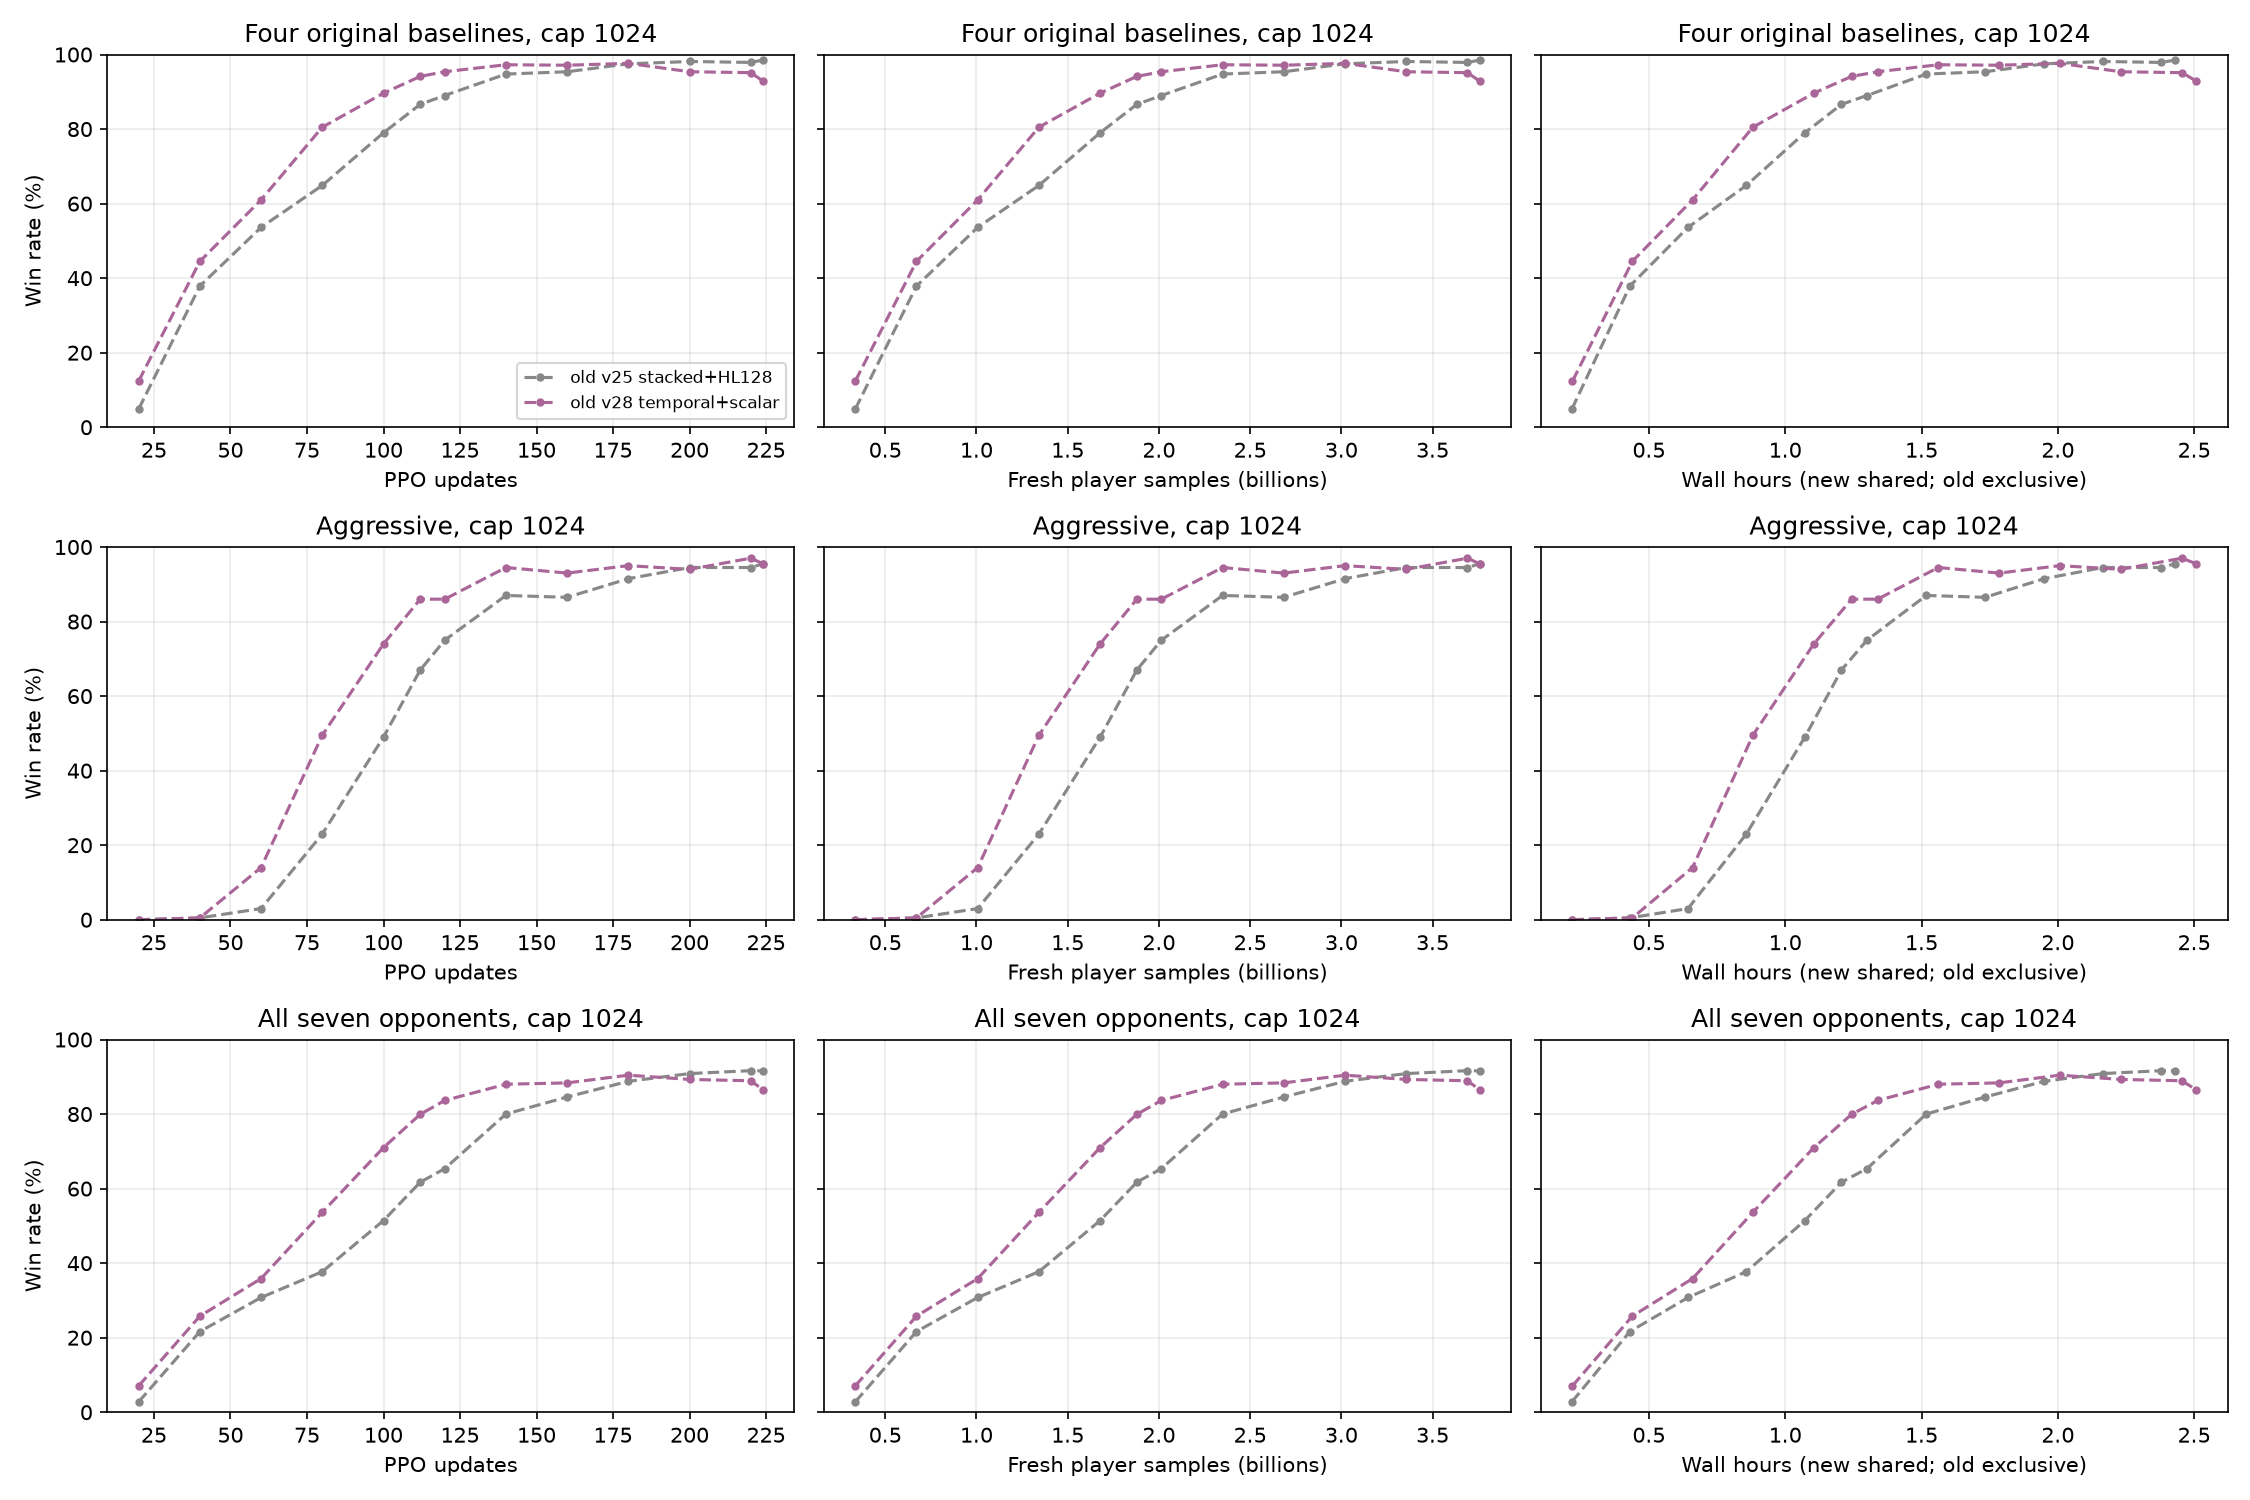
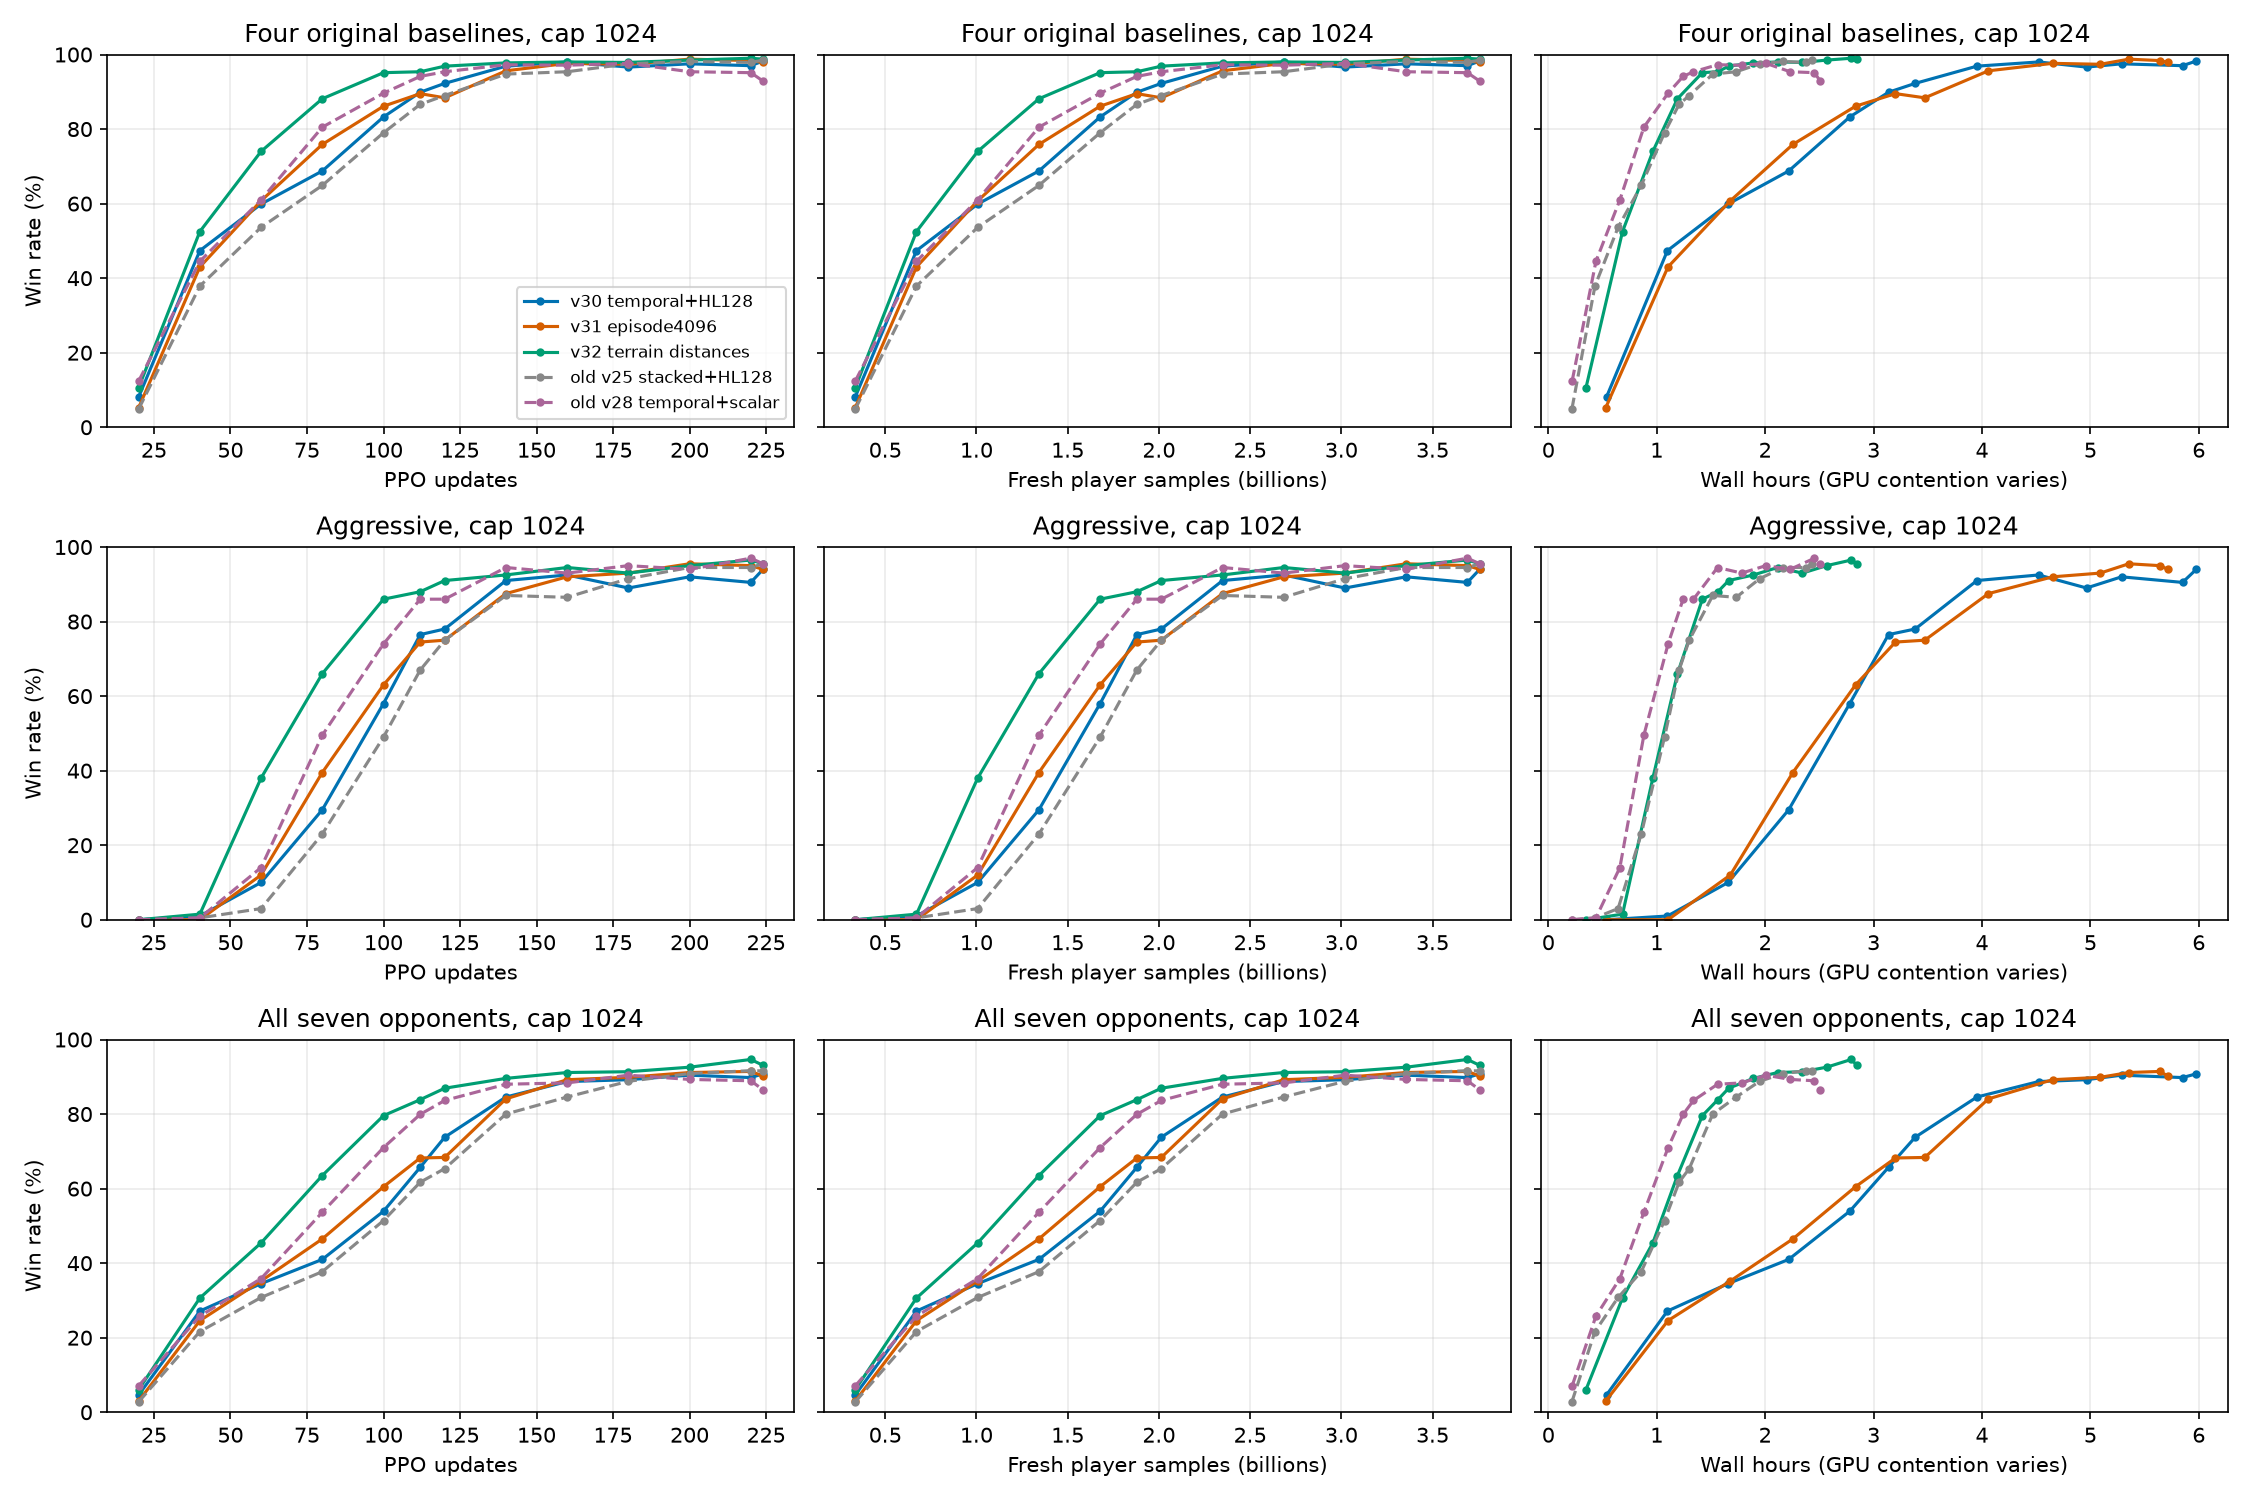
docs(rl): finalize terrain-distance and episode-length results

diff --git a/doc/terrain_distance_20261110_results.md b/doc/terrain_distance_20261110_results.md
@@ -1,14 +1,39 @@
 # Temporal + HL128：路径与时限消融
 
-更新：2026-11-11T01:59:56+00:00；队列状态：`v30_9x9_temporal_hl128`。
+更新：2026-11-11T16:40:59+00:00；队列状态：`completed`。
 
-[实验配置与路径定义](terrain_distance_20261110.md)。三组各224轮、单种子、3.758B新玩家样本。当前与其他任务共享8×H200，速度不可当作独占吞吐。
+[实验配置与路径定义](terrain_distance_20261110.md)。三组各224轮、单种子、3.758B新玩家样本。本轮部分时段与其他任务共享8×H200，资源竞争随时间变化，速度差异不能直接归因于算法。
+
+## 最终结论
+
+三组训练和全部独立种子评估于2026-11-11 16:40 UTC完成。每组实际收集3,758,096,384个新玩家样本，执行57,344次optimizer更新；13次训练期间评估均成功，权重与损失有限，allocator retry为0。
+
+以下固定比较U224，使用独立评估seed94722775、每对手200张地图×双座、采样动作，共2800局／模型。七对手为原四基线＋kestrel-v7／razor-v8／aegis-v2；统一2048 tick口径，平局不计胜利。
+
+| U224模型 | 四基线均值 | 七对手均值 | aggressive | Aegis | 七对手胜／平／负 |
+|---|---:|---:|---:|---:|---|
+| v30：基线，2048 tick | 98.125% | 91.500% | 94.25% | 66.50% | 2562／3／235 |
+| v31：4096 tick训练 | 98.000% | 90.107% | 94.00% | 65.00% | 2523／5／272 |
+| v32：两个路径通道 | 98.625% | 93.536% | 95.50% | 73.50% | 2619／2／179 |
+
+- **路径特征有收益。** 固定U224的七对手胜率提高2.036个百分点，Aegis提高7个百分点。开发集U100时，七对手胜率为80.14%，基线为54.29%；首次超过90%是U160，基线是U200。这一轮同时观察到更快的学习和更高的最终胜率。
+- **单独延长训练时限没有改善。** v31最终七对手胜率比基线低1.393个百分点；即使评估上限放宽到4096，胜率也仅由90.107%变为90.143%。当前失败以败局为主，几乎没有超时平局，不能解释为评估时限不足。
+- **未确认路径组发生后期退化。** 开发集U220→U224从94.79%降至93.14%，但独立评估从93.43%变为93.54%。按开发集选择的best仍保留U220，其独立评估aggressive为96.25%、Aegis为74.25%；不根据独立评估重新选择best。
+- **路径存储开销符合预期。** 每卡rollout观测buffer由3.647增至4.280 GiB，增加0.6328125 GiB；正式训练峰值allocated由19.348增至19.995 GiB。输入仍为40通道，参数量和token数不变。完整预检中路径组吞吐比基线低约0.41%，但只有两个稳态样本且共享GPU，不能精确归因。正式训练后20轮路径组约426k玩家样本/s，基线约159k；两组GPU竞争程度不同，不能将这个差距解释为路径方案加速。
+
+后续建议以2048 tick＋temporal_paths作为这一组实验的候选基座，保留U220与U224两个模型。以上仍是单个训练种子的结果；独立评估种子扩大了地图／控制器测试覆盖，并不等同于多训练种子复现。
+
+三组best/final导出包均已保存到本地：`outputs/experiments/terrain_distance_20261110_actual01/heldout/<run>/<best或final>/bundle/`，包含权重、模型配置和冻结策略源码；原始训练checkpoint保留在H200。本轮v32名称仅指本次路径消融，与早期v32／v32-opt不同。
+
+## 训练期间评估与性能
+
+下表使用开发集，吞吐取最后20轮；不是上面的独立评估结果。
 
 | Run | PPO轮 | 原时限 | 原时限七对手 | 统一2048四基线 | 统一2048七对手 | 玩家样本/s | 峰值allocated/reserved GiB |
 |---|---:|---:|---:|---:|---:|---:|---:|
-| v30_9x9_temporal_hl128 | 5/224 | 2048 | — | — | — | 170,653 | 19.35/20.56 |
-| v31_9x9_temporal_hl128_4096 | 0/224 | 4096 | — | — | — | — | 0.00/0.00 |
-| v32_9x9_temporal_hl128_paths | 0/224 | 2048 | — | — | — | — | 0.00/0.00 |
+| v30_9x9_temporal_hl128 | 224/224 | 2048 | 90.86% | 98.25% | 90.86% | 158,564 | 19.35/20.58 |
+| v31_9x9_temporal_hl128_4096 | 224/224 | 4096 | 90.43% | 97.88% | 90.43% | 296,438 | 19.35/20.64 |
+| v32_9x9_temporal_hl128_paths | 224/224 | 2048 | 93.14% | 98.75% | 93.14% | 426,078 | 20.00/21.38 |
 
 ![统一2048 tick](assets/terrain_distance_20261110/curves_cap2048.png)
 
@@ -17,3 +42,28 @@
 短时限曲线从同一局的终局tick截取：超过时限的胜/负均计平局；不是再次独立采样。模型内部clock仍使用其训练配置。旧v25/v28仅在1024口径图比较；旧训练上限2000，本轮2048/4096，且旧吞吐在独占GPU下测量。
 
 TensorBoard：`outputs/experiments/terrain_distance_20261110_actual01/runs/<run>/events.out.tfevents.*`。
+
+## 独立种子验证
+
+best按开发集统一2048七对手均值选择；final固定U224。各模型使用同一批新地图/控制器种子、每对手400局。v30的best与final是同一个U224模型，两行不构成独立重复实验。各时限由同一次4096 tick评估截取，模型内部clock仍遵循各自训练配置。
+
+| 模型/时限 | U | 四基线 | aggressive | 七对手 |
+|---|---:|---:|---:|---:|
+| v30_9x9_temporal_hl128/best/t1024 | 224 | 98.00% | 94.25% | 91.43% |
+| v30_9x9_temporal_hl128/best/t2048 | 224 | 98.12% | 94.25% | 91.50% |
+| v30_9x9_temporal_hl128/best/t4096 | 224 | 98.12% | 94.25% | 91.50% |
+| v30_9x9_temporal_hl128/final/t1024 | 224 | 98.00% | 94.25% | 91.43% |
+| v30_9x9_temporal_hl128/final/t2048 | 224 | 98.12% | 94.25% | 91.50% |
+| v30_9x9_temporal_hl128/final/t4096 | 224 | 98.12% | 94.25% | 91.50% |
+| v31_9x9_temporal_hl128_4096/best/t1024 | 220 | 97.44% | 91.00% | 90.25% |
+| v31_9x9_temporal_hl128_4096/best/t2048 | 220 | 97.50% | 91.00% | 90.39% |
+| v31_9x9_temporal_hl128_4096/best/t4096 | 220 | 97.50% | 91.00% | 90.43% |
+| v31_9x9_temporal_hl128_4096/final/t1024 | 224 | 97.94% | 94.00% | 89.93% |
+| v31_9x9_temporal_hl128_4096/final/t2048 | 224 | 98.00% | 94.00% | 90.11% |
+| v31_9x9_temporal_hl128_4096/final/t4096 | 224 | 98.00% | 94.00% | 90.14% |
+| v32_9x9_temporal_hl128_paths/best/t1024 | 220 | 98.56% | 96.25% | 93.18% |
+| v32_9x9_temporal_hl128_paths/best/t2048 | 220 | 98.69% | 96.25% | 93.43% |
+| v32_9x9_temporal_hl128_paths/best/t4096 | 220 | 98.69% | 96.25% | 93.43% |
+| v32_9x9_temporal_hl128_paths/final/t1024 | 224 | 98.50% | 95.50% | 93.25% |
+| v32_9x9_temporal_hl128_paths/final/t2048 | 224 | 98.62% | 95.50% | 93.54% |
+| v32_9x9_temporal_hl128_paths/final/t4096 | 224 | 98.62% | 95.50% | 93.54% |
